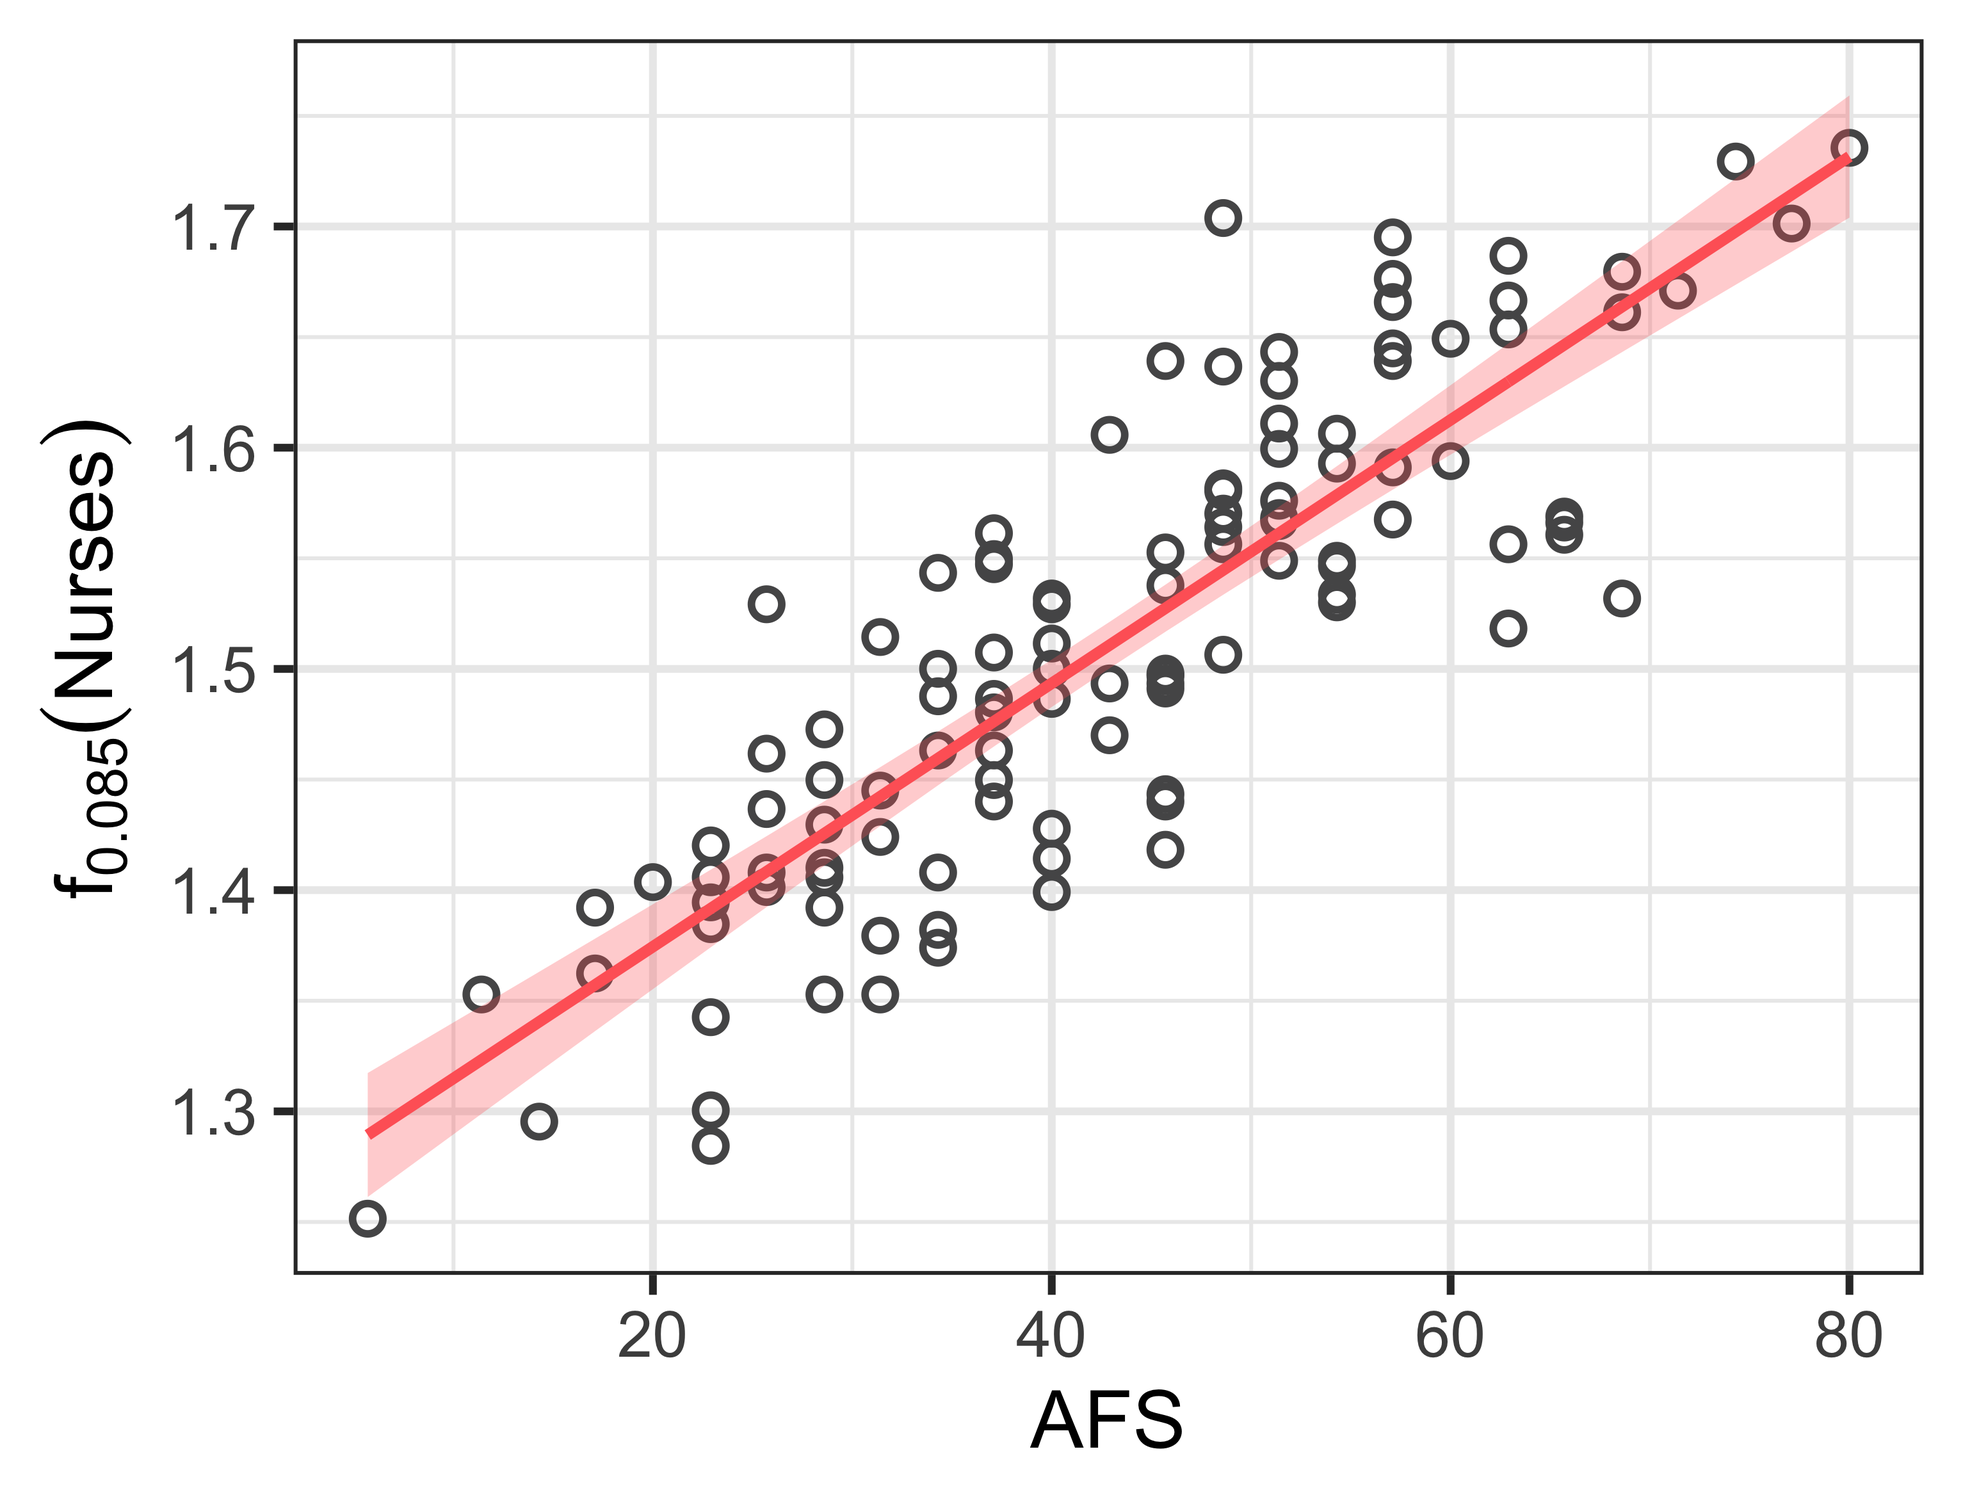
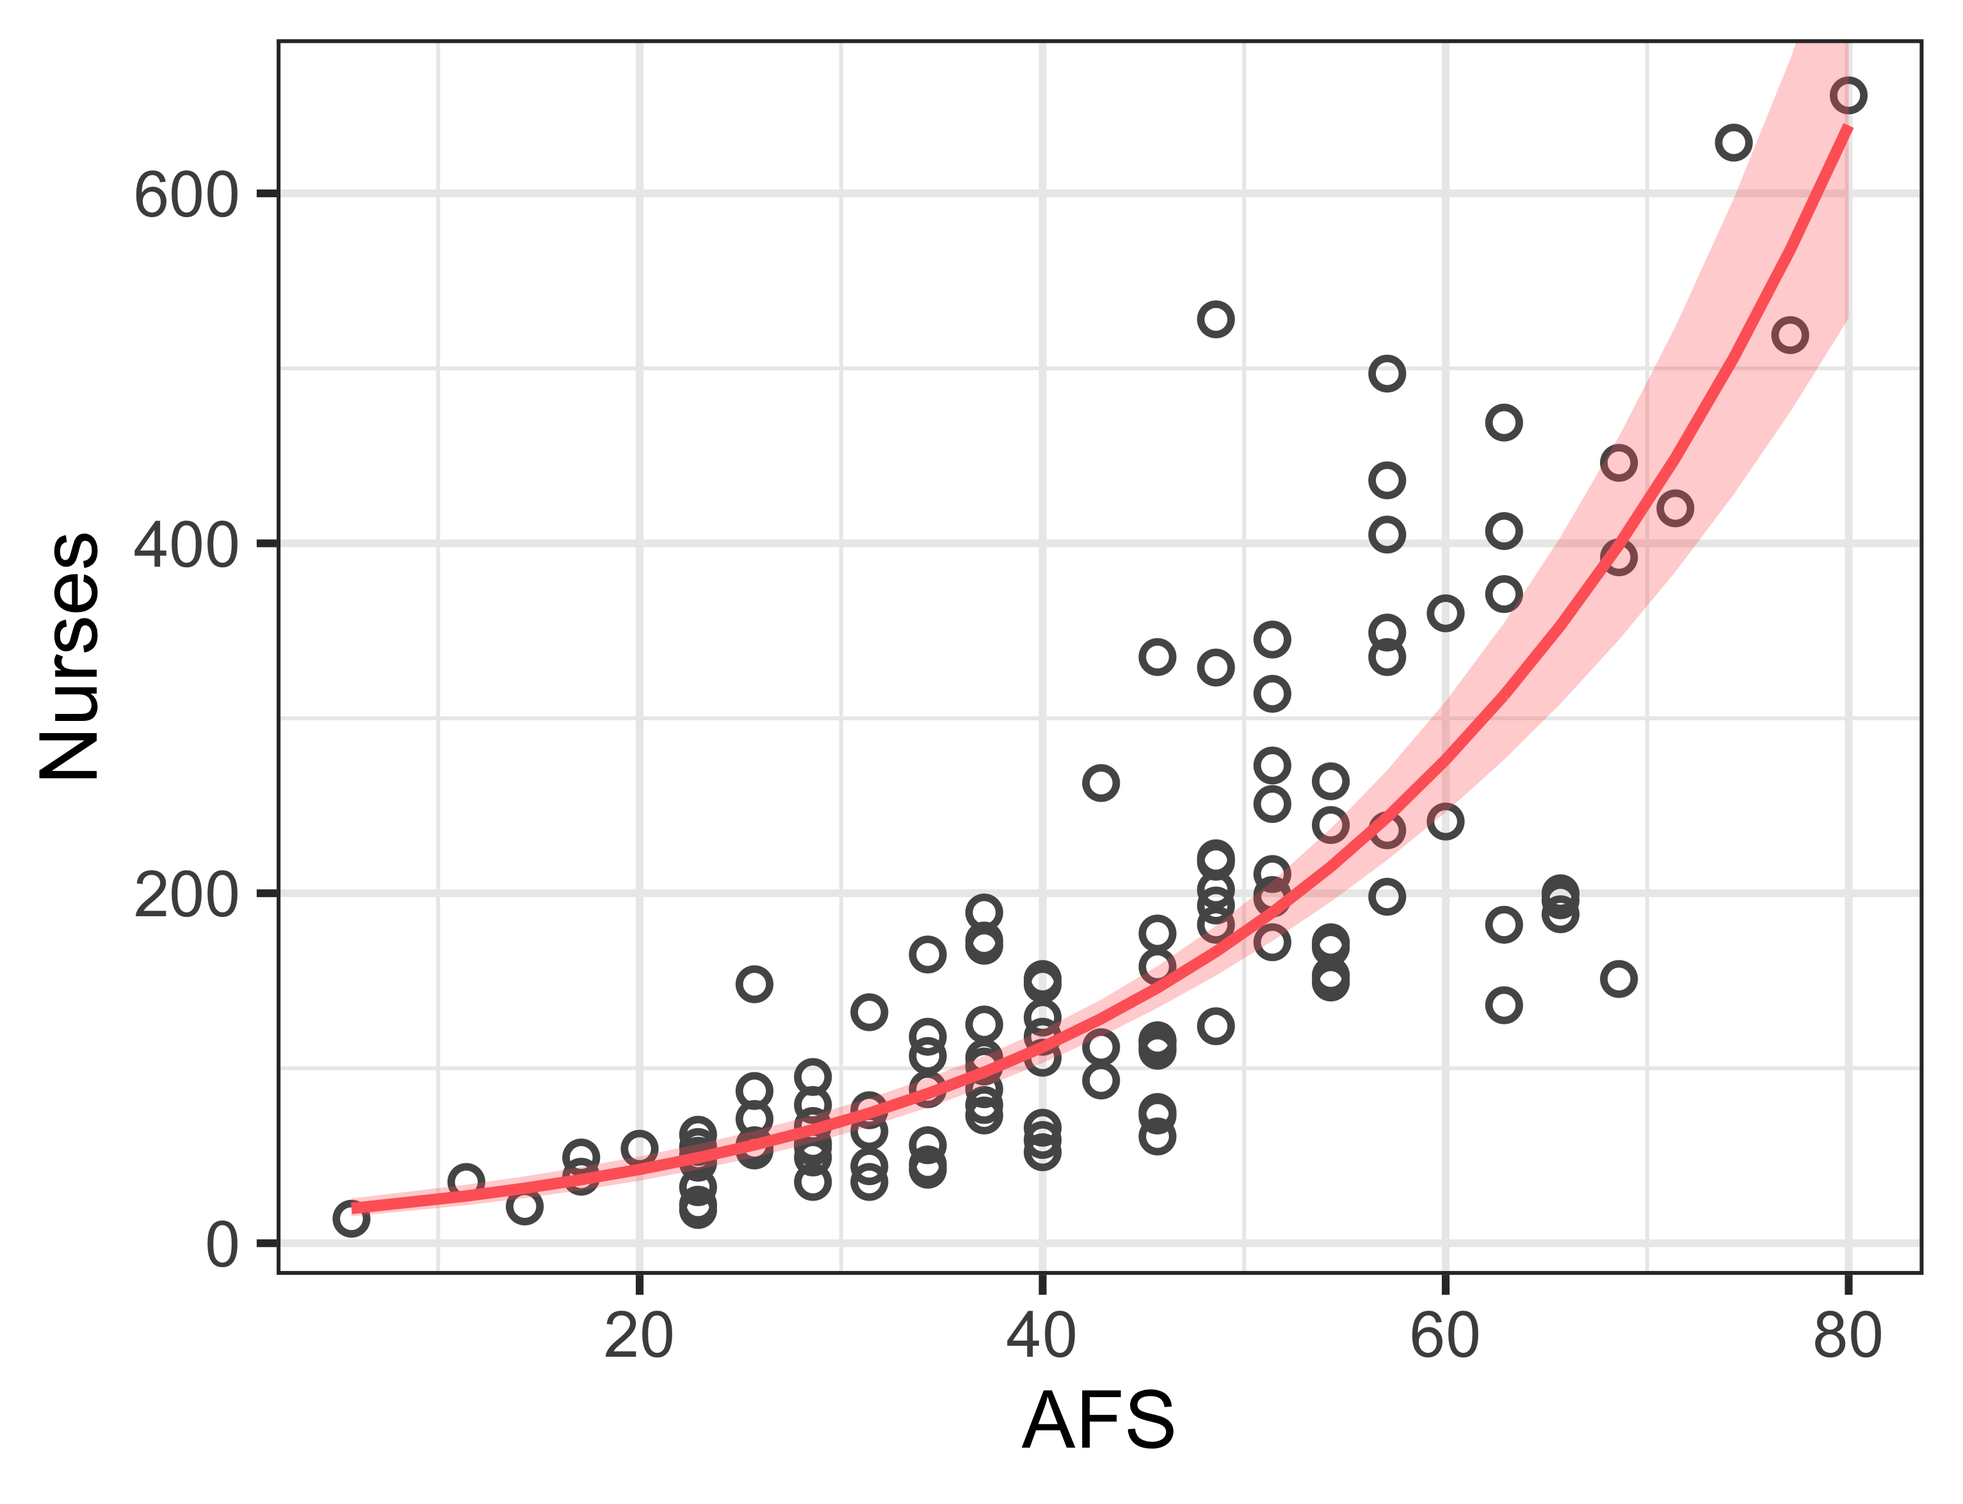
fixed image

diff --git a/hwk/hwk05/hwk05-ans.tex b/hwk/hwk05/hwk05-ans.tex
@@ -35,6 +35,8 @@
 
 \maketitle
 
+\newcommand{\myf}{\mathbf{f}_{\lambda}}
+\newcommand{\myffull}{\mathbf{f}_{\lambda}(\mathbf{y})}
 \newcommand{\myg}{\mathbf{g}_{\lambda}}
 \newcommand{\mygfull}{\mathbf{g}_{\lambda}(\mathbf{y})}
 %' ============================================================================================================================================================
@@ -46,7 +48,7 @@
     \(X\) appears to be normally-distributed. In addition, the scatterplot of \(Y\) vs. \(X\), which is in the third panel of Figure 
     \ref{q01-investigation}, shows that there is a nonlinear relationship between \(Y\) and \(X\). 
     All of these indicate that \(Y\) is suitable for a data transformation. Specifically, we would like to perform a 
-    power transformation on \(Y\). 
+    power transformation on \(Y\) in order to make it closer to a normal distribution. 
     \begin{figure}[ht]
         \centering
         \includegraphics[width = 0.32\textwidth]{img/q01-nurses-hist-original.png}
@@ -55,95 +57,114 @@
         \caption{Histograms of \(Y\) and \(X\) and a scatterplot of \(Y\) vs. \(X\).}
         \label{q01-investigation}
     \end{figure}
-    \item[(b)] The power transformation function, and its inverse, are defined as 
+    \item[(b)] The power transformation function and its scaled counterpart are defined as 
     \begin{align*}
+        f_{\lambda}(Y) 
+        = \begin{cases}
+            % \frac{Y^{\lambda} - 1}{\lambda} & \text{if } \lambda \neq 0 \\
+            \hfil Y^{\lambda} & \text{if } \lambda \neq 0 \\
+            \log Y & \text{if } \lambda = 0.
+        \end{cases}
+        ~~~\text{and}~~~
         g_{\lambda}(Y) 
         = \begin{cases}
             % \frac{Y^{\lambda} - 1}{\lambda} & \text{if } \lambda \neq 0 \\
             (Y^{\lambda} - 1) / \lambda & \text{if } \lambda \neq 0 \\
             \hfil \log Y & \text{if } \lambda = 0.
         \end{cases}
-        ~~~\text{and}~~~
-        g_{\lambda}^{-1}(Y) 
-        = \begin{cases}
-            \left( 1 + \lambda Y \right)^{1 / \lambda} & \text{if } \lambda \neq 0 \\
-             \hfil \mathrm{exp}(Y) & \text{if } \lambda = 0.
-        \end{cases}
+        % g_{\lambda}^{-1}(Y) 
+        % = \begin{cases}
+        %     \left( 1 + \lambda Y \right)^{1 / \lambda} & \text{if } \lambda \neq 0 \\
+        %      \hfil \mathrm{exp}(Y) & \text{if } \lambda = 0.
+        % \end{cases}
     \end{align*}
-    Suppose we have our response vector \(\mathbf{y}\) and our observed data \(\mathbf{X}\). 
-    We are interested in fitting the model \(\mathbf{g}_{\lambda}(\mathbf{y}) = \mathbf{X}\bm{\beta} + \bm{\epsilon}\), where \(\mathbf{g}_{\lambda}(\mathbf{y})\)
-    is the transformed response vector (i.e. the \(i\)th element is given by \(g_{\lambda}(y_i)\)), \(\mathbb{E}[\bm{\epsilon}] = \mathbf{0}\), and 
-    \(\mathrm{Var}[\bm{\epsilon}] = \sigma^2 \mathbf{I}\). 
-    For notational ease, we will denote \(\mygfull\) as \(\myg\). 
-    If we make the further assumption that \(\bm{\epsilon}\) is normally distributed, i.e. 
-    \(\bm{\epsilon} \sim \mathrm{N}(\mathbf{0}, \sigma^2 \mathbf{I})\), then our response vector is also normally distributed, where
-    \(\myg \sim \mathrm{N}(\mathbf{X}\bm{\beta}, \sigma^2 \mathbf{I})\). It's density function (and thus it's likelihood function) is given by 
-    \begin{align*}
-        % f(\myg \,|\, \mathbf{X}, \bm{\beta}, \sigma^2, \lambda)
-        f(\myg \,|\, \bm{\beta}, \sigma^2, \lambda)
-        % f(\myg)
-        &= \frac{1}{\sqrt{\mathrm{det}(2 \pi \sigma^2 \mathbf{I})}} \cdot \mathrm{exp} \left( - \frac{(\myg - \mathbf{X}\bm{\beta})^T \big( \sigma^2 \mathbf{I} \big)^{-1} (\myg - \mathbf{X}\bm{\beta})}{2} \right) \\
-        &= \frac{1}{(2\pi\sigma^2)^{n/2}} \cdot \mathrm{exp} \left( - \frac{(\myg - \mathbf{X}\bm{\beta})^T (\myg - \mathbf{X}\bm{\beta})}{2 \sigma^2} \right).
-    \end{align*}
-    Since \(\mathbf{y}\) is a transformation of \(\myg\) (via \(g_{\lambda}^{-1}\)), we can derive the density for \(\mathbf{y}\) as well. Notationally, this result may be somewhat 
-    confusing; even though we are finding the density for \(\mathbf{y}\), we will still express the density (partly) in terms of \(\myg\). It is important
-    to remember that \(\myg\) is a function of \(\mathbf{y}\). Because the \(i\)th element of \(\myg\) only depends on the \(i\)th element of \(\mathbf{y}\), the Jacobian
-    will be a diagonal matrix, and so 
-    \begin{align*}
-        \mathbf{J}
-        = \frac{\partial \myg}{\partial \mathbf{y}}
-        = \mathrm{diag} \left( \frac{\partial g_{\lambda}(y_1)}{\partial y_1}, \ldots, \frac{\partial g_{\lambda}(y_n)}{\partial y_n} \right)
-        = \mathrm{diag} \big( y_1^{\lambda - 1}, \ldots, y_n^{\lambda - 1} \big), 
-    \end{align*}
-    and so the density (and thus the likelihood) of \(\mathbf{y}\) is given by 
-    \begin{align*}
-        g(\mathbf{y} \,|\, \bm{\beta}, \sigma^2, \lambda)
-        = f \big( \myg(\mathbf{y}) \big) \cdot \big|\mathrm{det}(\mathbf{J})\big|
-        = \frac{1}{(2\pi\sigma^2)^{n/2}} \cdot \mathrm{exp} \left( - \frac{(\myg - \mathbf{X}\bm{\beta})^T (\myg - \mathbf{X}\bm{\beta})}{2 \sigma^2} \right) \cdot \prod_{i=1}^n y_i^{\lambda - 1}.
-    \end{align*}
-    The log-likelihood \(\ell(\mathbf{y}) = \log g(\mathbf{y})\) is given by 
-    \begin{align*}
-        \ell(\mathbf{y} \,|\, \bm{\beta}, \sigma^2, \lambda) 
-        = - \frac{n}{2} \log (2\pi) - \frac{n}{2} \log (\sigma^2) - \frac{(\myg - \mathbf{X}\bm{\beta})^T (\myg - \mathbf{X}\bm{\beta})}{2 \sigma^2} + (\lambda - 1) \sum_{i=1}^n \log (y_i).
-    \end{align*}
-    As is standard with maximum likelihood estimation, we now differentiate \(\ell\) with respect to the unknown parameters, set the derivatives to zero, and solve to get the maximum value of \(\ell\). 
-    For now, we are going to leave \(\lambda\) fixed and differentiate with respect to \(\bm{\beta}\) and \(\sigma^2\). Doing this for both gives us 
-    \(\hat{\bm{\beta}}_{\mathrm{MLE}} = (\mathbf{X}^T\mathbf{X})^{-1}\mathbf{X}^T\myg\) and \(\hat{\sigma}^2_{\mathrm{MLE}} = \myg^T (\mathbf{I} - \mathbf{H}) \myg\), where 
-    \(\mathbf{H} = \mathbf{X}(\mathbf{X}^T\mathbf{X})^{-1}\mathbf{X}^T\) is the hat matrix. 
-    It is worth noting that both \(\hat{\bm{\beta}}_{\mathrm{MLE}}\) and \(\hat{\sigma}^2_{\mathrm{MLE}}\) are functions of \(\lambda\). 
-    Plugging these values back into \(\ell\) will maximize it with respect to \(\bm{\beta}\) and \(\sigma^2\), 
-    which means we will only have to maximize it with respect to \(\lambda\). 
-    With some simplification, our new loss function is 
+    When transforming \(Y\), we first use the scaled power transform to fit the model \(g_{\lambda}(Y) = \beta_0 + \beta_1 X + \epsilon\) in order
+    to determine an optimal value of \(\lambda\) via maximum likelihood estimation. 
+    We then use \(f_{\lambda}\) to make \(Y\) closer to a normal distribution and perform any subsequent inferences. 
+    % If we have our \(n\) observations (\(\mathbf{x}\),\(\mathbf{y}\)).
+    In vector form, our model is \(\mygfull = \beta_0 \mathbf{1} + \beta_1 \mathbf{x} + \bm{\epsilon}\), where \(\bm{\epsilon} \sim \mathrm{N}(\mathbf{0}, \sigma^2 \mathbf{I})\)
+    and \(\mygfull\) is the transformed response (so \([\mygfull]_i = g_{\lambda}(y_i)\)) for some unknown \(\lambda\). 
+    % Since \(\mygfull \sim \mathrm{N}(\beta_0 \mathbf{1} + \beta_1 \mathbf{x}, \sigma^2 \mathbf{I})\), 
+    It can be shown (see Appendix A) that the log-likelihood function can be expressed as a function of only \(\lambda\), 
     \begin{align*}
         m(\lambda)
-        \coloneqq \ell(\mathbf{y} \,|\, \hat{\bm{\beta}}_{\mathrm{MLE}}, \hat{\sigma}^2_{\mathrm{MLE}}, \lambda)
-        % \triangleq \ell(\mathbf{y} \,|\, \hat{\bm{\beta}}_{\mathrm{MLE}}, \hat{\sigma}^2_{\mathrm{MLE}}, \lambda)
-        % = - \frac{n}{2} \log \left( \frac{2 \pi e}{n} \right) - \frac{n}{2} \log \big( \myg^T(\mathbf{I} - \mathbf{H}) \myg \big) + (\lambda - 1) \sum_{i=1}^n \log(y_i).
-        = - \frac{n}{2} \log \left( 2 \pi \mathrm{e} n \right) - \frac{n}{2} \log \big( \myg^T(\mathbf{I} - \mathbf{H}) \myg \big) + (\lambda - 1) \sum_{i=1}^n \log(y_i).
+        \coloneqq - \frac{n}{2} \log \left( \frac{2 \pi \mathrm{e}}{n} \right) - \frac{n}{2} \log \Big( \myg^T(\mathbf{y})(\mathbf{I} - \mathbf{H}) \myg(\mathbf{y}) \Big) + (\lambda - 1) \sum_{i=1}^n \log(y_i),
     \end{align*}
-    Ideally, we would differentiate \(m\) with respect to \(\lambda\), set \(\partial m / \partial \lambda = 0\), and solve for \(\lambda\). I was unable to 
-    derive a closed form solution for the result, but it is still possible to use graphical techniques or numerical methods to find the optimal value of \(\lambda\). 
+    where \(\mathbf{H} = \mathbf{X}(\mathbf{X}^T\mathbf{X})^{-1}\mathbf{X}^T\) is the hat matrix. \(m(\lambda)\) has been plotted in the left panel of Figure \ref{q01-box-cox},
+    where we can see that the MLE is maximuzed at \(\lambda = 0.085\). 
 
-    We recall that both \(\hat{\bm{\beta}}_{\mathrm{MLE}}\) and \(\hat{\sigma}^2_{\mathrm{MLE}}\) are functions of \(\lambda\), so we cannot know their value until \(\hat{\lambda}_{\mathrm{MLE}}\) has been determined.
-    Because of this, as we just showed, the likelihood function can be expressed as a function \(m(\lambda)\) that only depends on \(\lambda\), which can be maximized to find \(\hat{\lambda}_{\mathrm{MLE}}\). 
-    Once we find \(\hat{\lambda}_{\mathrm{MLE}}\), we can use this value to determine \(\hat{\bm{\beta}}_{\mathrm{MLE}}\) and \(\hat{\sigma}^2_{\mathrm{MLE}}\). 
+
+    % Suppose we have our response vector \(\mathbf{y}\) and our observed data \(\mathbf{X}\). 
+    % We are interested in fitting the model \(\mathbf{g}_{\lambda}(\mathbf{y}) = \mathbf{X}\bm{\beta} + \bm{\epsilon}\), where \(\mathbf{g}_{\lambda}(\mathbf{y})\)
+    % is the transformed response vector (i.e. the \(i\)th element is given by \(g_{\lambda}(y_i)\)), \(\mathbb{E}[\bm{\epsilon}] = \mathbf{0}\), and 
+    % \(\mathrm{Var}[\bm{\epsilon}] = \sigma^2 \mathbf{I}\). 
+    % For notational ease, we will denote \(\mygfull\) as \(\myg\). 
+    % If we make the further assumption that \(\bm{\epsilon}\) is normally distributed, i.e. 
+    % \(\bm{\epsilon} \sim \mathrm{N}(\mathbf{0}, \sigma^2 \mathbf{I})\), then our response vector is also normally distributed, where
+    % \(\myg \sim \mathrm{N}(\mathbf{X}\bm{\beta}, \sigma^2 \mathbf{I})\). It's density function (and thus it's likelihood function) is given by 
+    % \begin{align*}
+    %     % f(\myg \,|\, \mathbf{X}, \bm{\beta}, \sigma^2, \lambda)
+    %     f(\myg \,|\, \bm{\beta}, \sigma^2, \lambda)
+    %     % f(\myg)
+    %     &= \frac{1}{\sqrt{\mathrm{det}(2 \pi \sigma^2 \mathbf{I})}} \cdot \mathrm{exp} \left( - \frac{(\myg - \mathbf{X}\bm{\beta})^T \big( \sigma^2 \mathbf{I} \big)^{-1} (\myg - \mathbf{X}\bm{\beta})}{2} \right) \\
+    %     &= \frac{1}{(2\pi\sigma^2)^{n/2}} \cdot \mathrm{exp} \left( - \frac{(\myg - \mathbf{X}\bm{\beta})^T (\myg - \mathbf{X}\bm{\beta})}{2 \sigma^2} \right).
+    % \end{align*}
+    % Since \(\mathbf{y}\) is a transformation of \(\myg\) (via \(g_{\lambda}^{-1}\)), we can derive the density for \(\mathbf{y}\) as well. Notationally, this result may be somewhat 
+    % confusing; even though we are finding the density for \(\mathbf{y}\), we will still express the density (partly) in terms of \(\myg\). It is important
+    % to remember that \(\myg\) is a function of \(\mathbf{y}\). Because the \(i\)th element of \(\myg\) only depends on the \(i\)th element of \(\mathbf{y}\), the Jacobian
+    % will be a diagonal matrix, and so 
+    % \begin{align*}
+    %     \mathbf{J}
+    %     = \frac{\partial \myg}{\partial \mathbf{y}}
+    %     = \mathrm{diag} \left( \frac{\partial g_{\lambda}(y_1)}{\partial y_1}, \ldots, \frac{\partial g_{\lambda}(y_n)}{\partial y_n} \right)
+    %     = \mathrm{diag} \big( y_1^{\lambda - 1}, \ldots, y_n^{\lambda - 1} \big), 
+    % \end{align*}
+    % and so the density (and thus the likelihood) of \(\mathbf{y}\) is given by 
+    % \begin{align*}
+    %     g(\mathbf{y} \,|\, \bm{\beta}, \sigma^2, \lambda)
+    %     = f \big( \myg(\mathbf{y}) \big) \cdot \big|\mathrm{det}(\mathbf{J})\big|
+    %     = \frac{1}{(2\pi\sigma^2)^{n/2}} \cdot \mathrm{exp} \left( - \frac{(\myg - \mathbf{X}\bm{\beta})^T (\myg - \mathbf{X}\bm{\beta})}{2 \sigma^2} \right) \cdot \prod_{i=1}^n y_i^{\lambda - 1}.
+    % \end{align*}
+    % The log-likelihood \(\ell(\mathbf{y}) = \log g(\mathbf{y})\) is given by 
+    % \begin{align*}
+    %     \ell(\mathbf{y} \,|\, \bm{\beta}, \sigma^2, \lambda) 
+    %     = - \frac{n}{2} \log (2\pi) - \frac{n}{2} \log (\sigma^2) - \frac{(\myg - \mathbf{X}\bm{\beta})^T (\myg - \mathbf{X}\bm{\beta})}{2 \sigma^2} + (\lambda - 1) \sum_{i=1}^n \log (y_i).
+    % \end{align*}
+    % As is standard with maximum likelihood estimation, we now differentiate \(\ell\) with respect to the unknown parameters, set the derivatives to zero, and solve to get the maximum value of \(\ell\). 
+    % For now, we are going to leave \(\lambda\) fixed and differentiate with respect to \(\bm{\beta}\) and \(\sigma^2\). Doing this for both gives us 
+    % \(\hat{\bm{\beta}}_{\mathrm{MLE}} = (\mathbf{X}^T\mathbf{X})^{-1}\mathbf{X}^T\myg\) and \(\hat{\sigma}^2_{\mathrm{MLE}} = \myg^T (\mathbf{I} - \mathbf{H}) \myg\), where 
+    % \(\mathbf{H} = \mathbf{X}(\mathbf{X}^T\mathbf{X})^{-1}\mathbf{X}^T\) is the hat matrix. 
+    % It is worth noting that both \(\hat{\bm{\beta}}_{\mathrm{MLE}}\) and \(\hat{\sigma}^2_{\mathrm{MLE}}\) are functions of \(\lambda\). 
+    % Plugging these values back into \(\ell\) will maximize it with respect to \(\bm{\beta}\) and \(\sigma^2\), 
+    % which means we will only have to maximize it with respect to \(\lambda\). 
+    % With some simplification, our new loss function is 
+    % \begin{align*}
+    %     m(\lambda)
+    %     \coloneqq \ell(\mathbf{y} \,|\, \hat{\bm{\beta}}_{\mathrm{MLE}}, \hat{\sigma}^2_{\mathrm{MLE}}, \lambda)
+    %     % \triangleq \ell(\mathbf{y} \,|\, \hat{\bm{\beta}}_{\mathrm{MLE}}, \hat{\sigma}^2_{\mathrm{MLE}}, \lambda)
+    %     % = - \frac{n}{2} \log \left( \frac{2 \pi e}{n} \right) - \frac{n}{2} \log \big( \myg^T(\mathbf{I} - \mathbf{H}) \myg \big) + (\lambda - 1) \sum_{i=1}^n \log(y_i).
+    %     = - \frac{n}{2} \log \left( 2 \pi \mathrm{e} n \right) - \frac{n}{2} \log \big( \myg^T(\mathbf{I} - \mathbf{H}) \myg \big) + (\lambda - 1) \sum_{i=1}^n \log(y_i).
+    % \end{align*}
+    % Ideally, we would differentiate \(m\) with respect to \(\lambda\), set \(\partial m / \partial \lambda = 0\), and solve for \(\lambda\). I was unable to 
+    % derive a closed form solution for the result, but it is still possible to use graphical techniques or numerical methods to find the optimal value of \(\lambda\). 
+
+    % We recall that both \(\hat{\bm{\beta}}_{\mathrm{MLE}}\) and \(\hat{\sigma}^2_{\mathrm{MLE}}\) are functions of \(\lambda\), so we cannot know their value until \(\hat{\lambda}_{\mathrm{MLE}}\) has been determined.
+    % Because of this, as we just showed, the likelihood function can be expressed as a function \(m(\lambda)\) that only depends on \(\lambda\), which can be maximized to find \(\hat{\lambda}_{\mathrm{MLE}}\). 
+    % Once we find \(\hat{\lambda}_{\mathrm{MLE}}\), we can use this value to determine \(\hat{\bm{\beta}}_{\mathrm{MLE}}\) and \(\hat{\sigma}^2_{\mathrm{MLE}}\). 
 
     % need to add info about transforming model back to y, here and in paragraph below
     % maybe put into appendix?
 
-    The left panel of Figure \ref{q01-box-cox} shows a plot of \(m(\lambda)\) against \(\lambda\) for values \(\lambda \in [-1, 1]\). The log-likelihood is maximized when \(\hat{\lambda}_{\mathrm{MLE}} = 0.09\).
-    The middle panel shows the histogram of \(g_{0.09}(Y)\), the transformed version of \(Y\), and we can see with this value of \(\lambda\) that \(\myg\) is normally distributed. 
-    We can now 
     \begin{figure}
         \centering
         \includegraphics[width = 0.32\textwidth]{img/q01-box-cox-lambda.png}
-        \includegraphics[width = 0.32\textwidth]{img/q01-nurses-hist-transformed.png}
-        \includegraphics[width = 0.32\textwidth]{img/q01-scatterplot-model.png}
-        \caption{Relevant plots for the Box-Cox transformation of \(Y\).}
+        \includegraphics[width = 0.32\textwidth]{img/q01-scatterplot-power.png}
+        \includegraphics[width = 0.32\textwidth]{img/q01-scatterplot-nurses.png}
+        \caption{Relevant plots for the power transformation of \(Y\).}
         \label{q01-box-cox}
     \end{figure}
 
-    \item[(c)] 
+    \item[(c)] Now that we have our optimal \(\lambda\), we will fit the model \(f_{0.085}(Y) = \beta_0 + \beta_1 X + \epsilon\).
 \end{itemize}
 
 \end{document}
